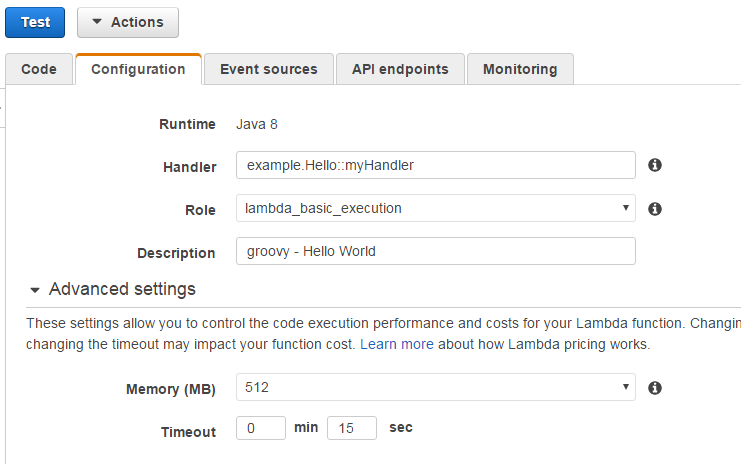
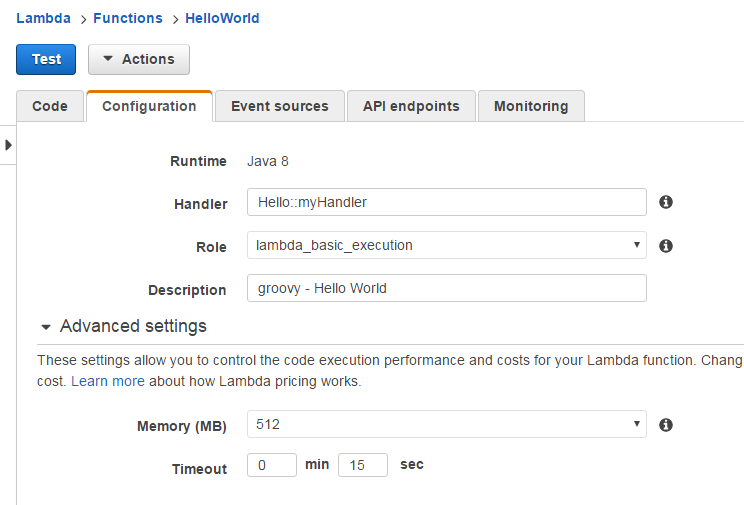
Updated configs and index.html

diff --git a/src/web/index.html b/src/web/index.html
@@ -1,0 +1,10 @@
+<!DOCTYPE html>
+<html>
+<head lang="en">
+    <meta charset="UTF-8">
+    <title>Test AWS S3 Web Hosting</title>
+</head>
+<body>
+    <h1>Welcome to the AWS S3 Hosting Environment</h1>
+</body>
+</html>
